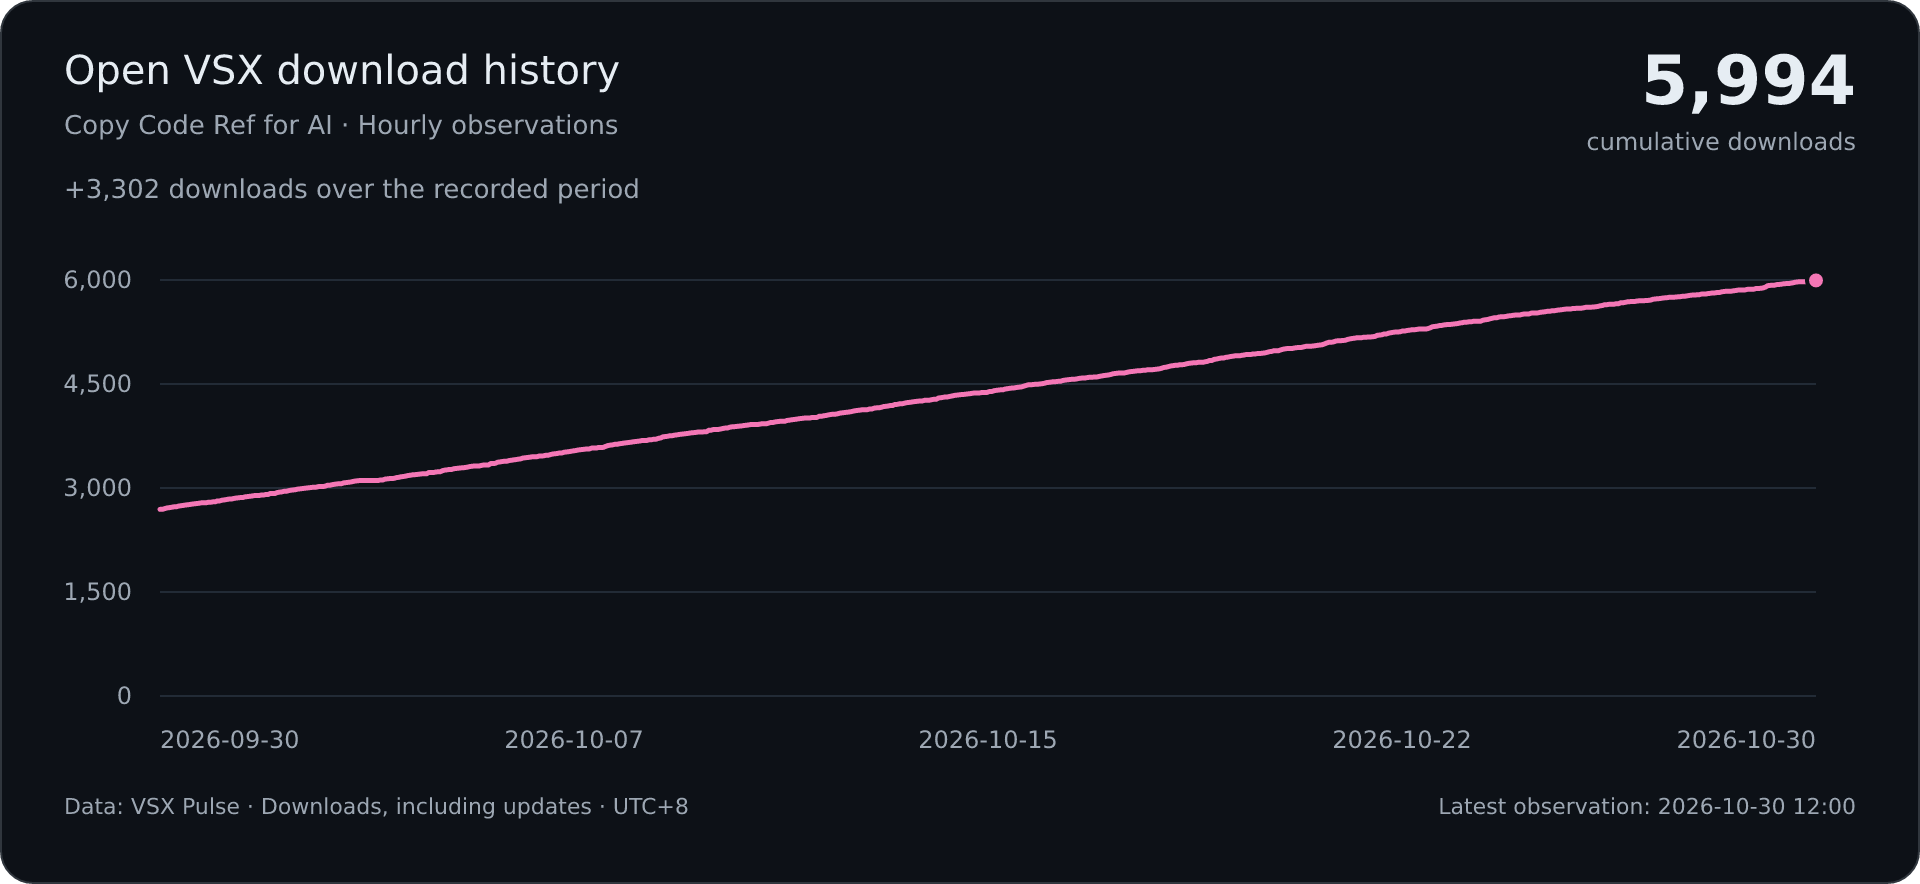
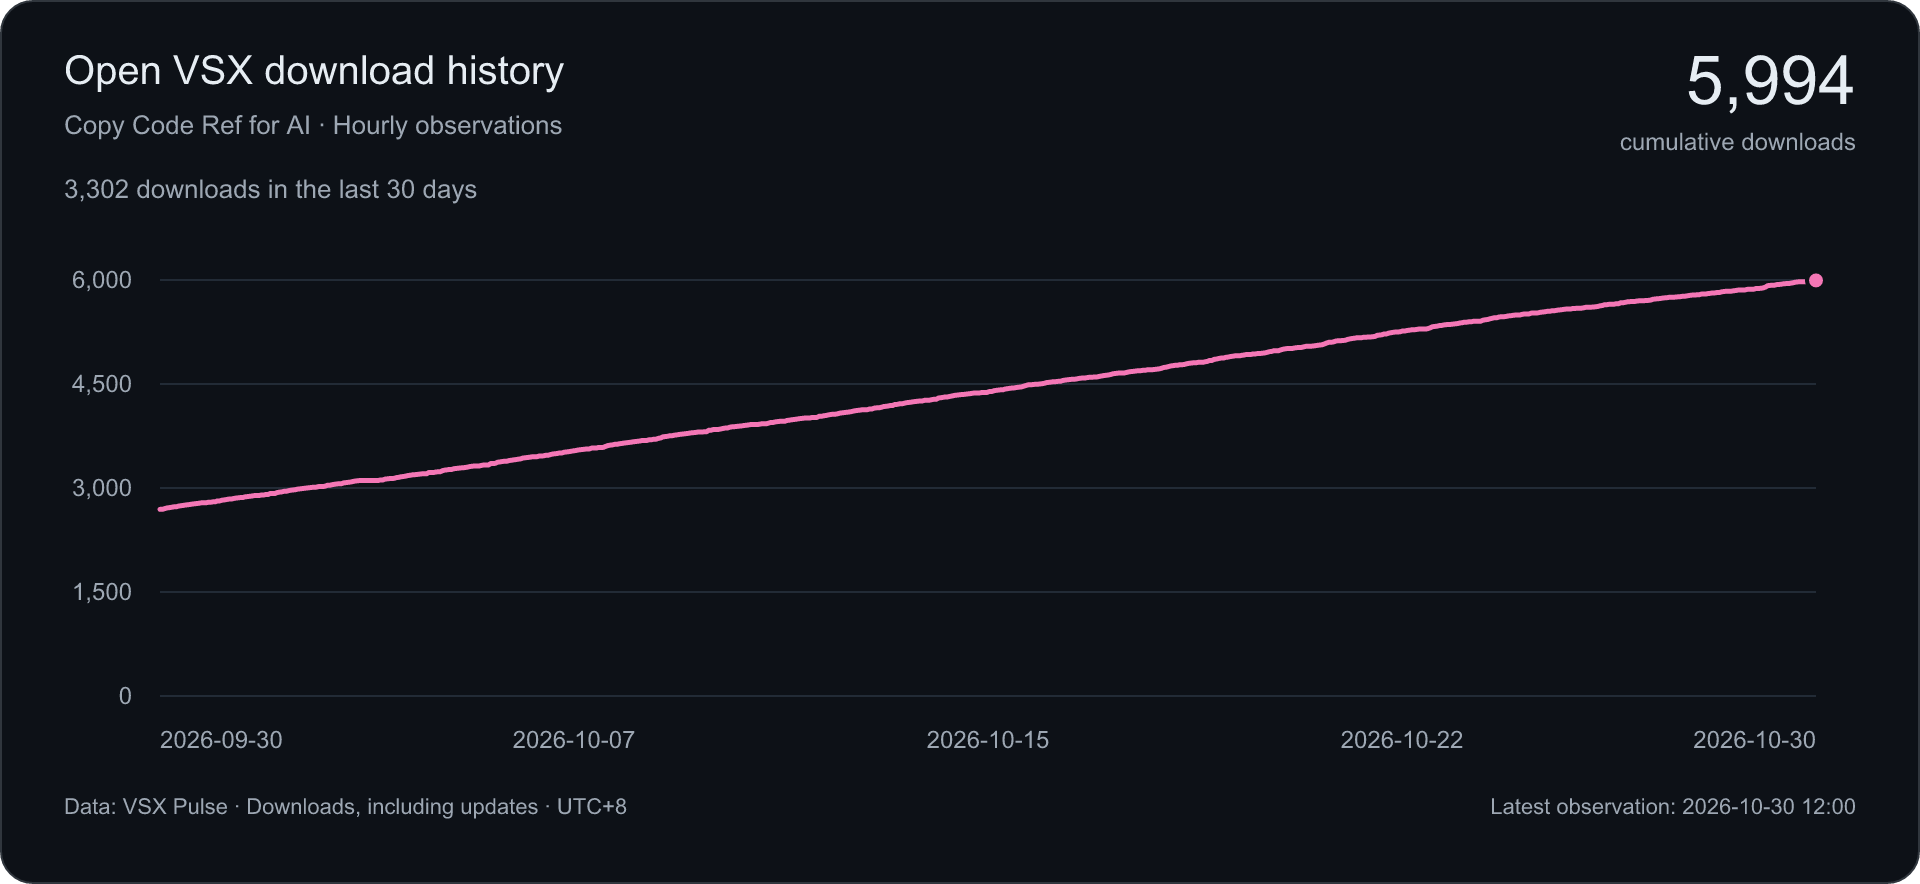
Show downloads from the last 30 days

diff --git a/data/openvsx/README.md b/data/openvsx/README.md
@@ -10,6 +10,7 @@ Source: `https://vsx-pulse.org/api/series?id=ohEVE.copy-code-path-ref&metric=dow
 - Empty or invalid responses fail the run before changing the archive or chart. Missing observations remain missing; the chart breaks the line across gaps. A source outage longer than its available history window may leave permanent gaps.
 - All hourly records are retained. Before the first observation's one-year anniversary, the chart uses hourly points. At or after that anniversary, it uses the last available observation of each day in `Asia/Shanghai` (UTC+8). Daily counts are never summed or averaged. The latest day may be partial.
 - The chart's latest-observation timestamp comes from the data, not the time the workflow ran. These are downloads recorded by a third party, not independently verified installations.
+- The 30-day download count is the latest cumulative reading minus the reading exactly 30 × 24 hours earlier, using the hourly archive even when the curve uses daily points. If that baseline is missing, the chart shows insufficient data. Source corrections can produce a negative difference.
 
 ## Updating
 
